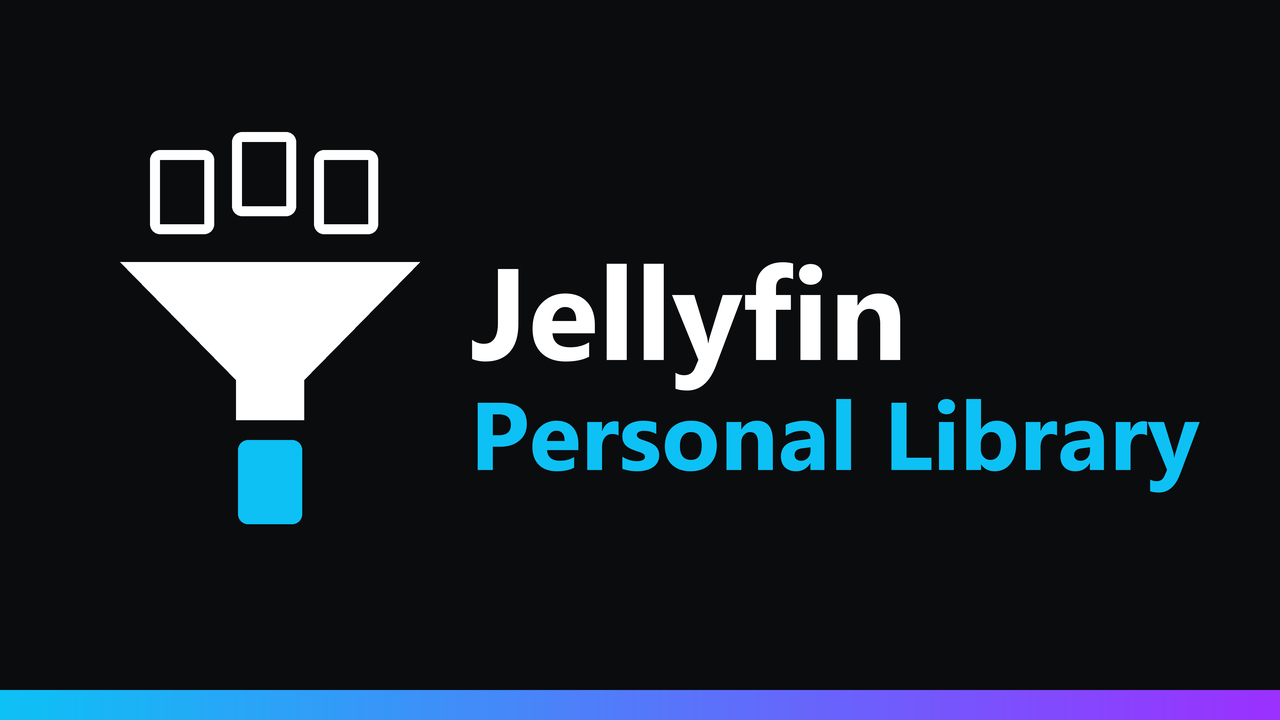
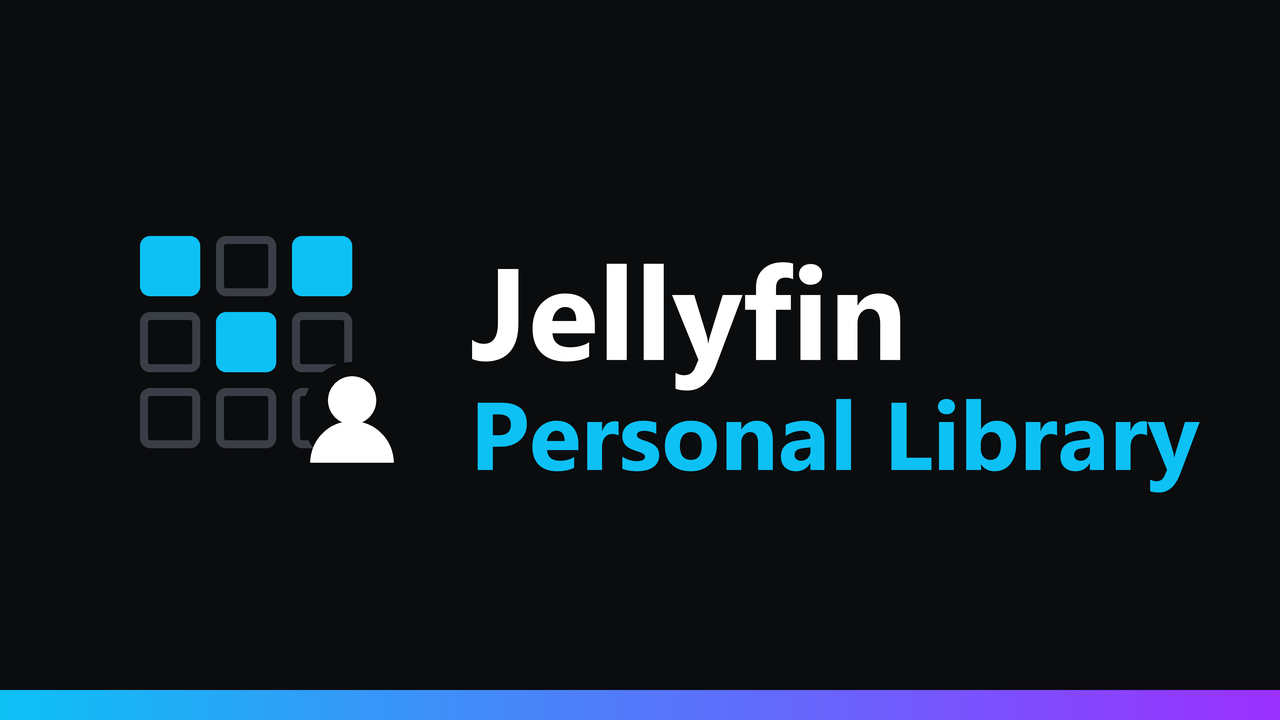
Nouvelle icône : la grille de la bibliothèque et l'utilisateur

Changed region(s): [[0.0938, 0.1833, 0.3438, 0.7333]]

diff --git a/scripts/make_icon.py b/scripts/make_icon.py
@@ -3,8 +3,8 @@
 
     python scripts/make_icon.py [--out icon.png]
 
-Des cartes blanches tombent dans un entonnoir, une seule carte bleue en sort, « Jellyfin » en blanc,
-« Personal Library » en bleu, bandeau dégradé en bas. Police Segoe UI Bold (Windows), sinon DejaVu Sans Bold.
+La grille de la bibliothèque : trois cases gardées en bleu, les autres éteintes, et un médaillon utilisateur
+(sa vue à lui) ; « Jellyfin » en blanc, « Personal Library » en bleu, bandeau dégradé en bas. Police Segoe UI Bold (Windows), sinon DejaVu Sans Bold.
 """
 import argparse
 import os
@@ -17,6 +17,7 @@ BG = (11, 12, 14)
 WHITE = (255, 255, 255)
 BLUE = (13, 193, 245)
 PURPLE = (155, 48, 255)
+DIM = (58, 62, 70)
 
 
 def font(size):
@@ -35,17 +36,25 @@ def main():
     img = Image.new("RGB", (W * s, H * s), BG)
     d = ImageDraw.Draw(img)
 
-    # Contenus du serveur : trois cartes blanches au-dessus de l'entonnoir.
-    for x, y in ((150, 150), (232, 132), (314, 150)):
-        d.rounded_rectangle((x * s, y * s, (x + 64) * s, (y + 84) * s), radius=10 * s, fill=BG, outline=WHITE, width=10 * s)
+    def box(v):
+        return [c * s for c in v]
 
-    # Entonnoir : trapèze blanc puis goulot.
-    cx = 270
-    d.polygon([((cx - 150) * s, 262 * s), ((cx + 150) * s, 262 * s), ((cx + 34) * s, 380 * s), ((cx - 34) * s, 380 * s)], fill=WHITE)
-    d.rectangle(((cx - 34) * s, 378 * s, (cx + 34) * s, 420 * s), fill=WHITE)
+    # Grille de la bibliothèque : ce que l'utilisateur garde en bleu, le reste éteint.
+    x0, y0, cell, gap = 140, 236, 60, 16
+    kept = {(0, 0), (1, 1), (0, 2)}
+    for row in range(3):
+        for col in range(3):
+            x, y = x0 + col * (cell + gap), y0 + row * (cell + gap)
+            if (row, col) in kept:
+                d.rounded_rectangle(box((x, y, x + cell, y + cell)), radius=10 * s, fill=BLUE)
+            else:
+                d.rounded_rectangle(box((x, y, x + cell, y + cell)), radius=10 * s, outline=DIM, width=8 * s)
 
-    # Ce qui reste pour l'utilisateur : une carte bleue sous le goulot.
-    d.rounded_rectangle(((cx - 32) * s, 440 * s, (cx + 32) * s, 524 * s), radius=10 * s, fill=BLUE)
+    # Médaillon utilisateur sur le coin de la grille : tête ronde + buste, détouré du fond.
+    cx, cy, k = 352, 418, 0.8
+    d.ellipse(box((cx - 62 * k, cy - 70 * k, cx + 62 * k, cy + 62 * k)), fill=BG)
+    d.ellipse(box((cx - 30 * k, cy - 52 * k, cx + 30 * k, cy + 8 * k)), fill=WHITE)
+    d.pieslice(box((cx - 52 * k, cy + 4 * k, cx + 52 * k, cy + 108 * k)), 180, 360, fill=WHITE)
 
     # Texte : « Jellyfin » / « Personal Library », réduit si besoin pour tenir dans la largeur.
     left, right = 470 * s, (W - 60) * s
